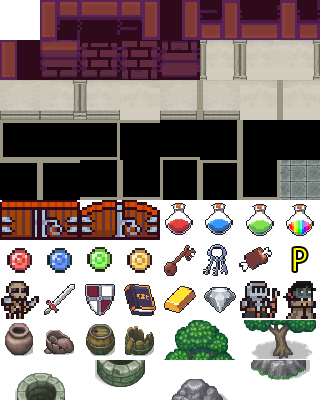
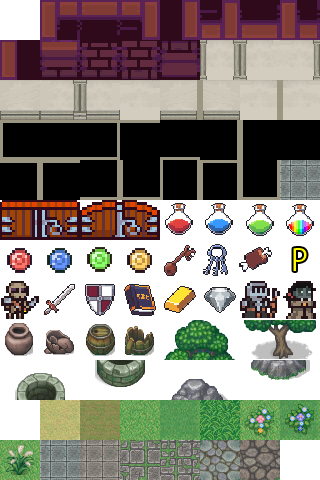
a

diff --git a/zelda/source/MapCtrl.cpp b/zelda/source/MapCtrl.cpp
@@ -419,6 +419,22 @@ bool MapCtrl::SetUpGameObj(sharedListObj objList, bool modeFlag)
 			case MAP_ID::STONE_2:
 			case MAP_ID::STONE_3:
 			case MAP_ID::STONE_4:
+			case MAP_ID::falest:
+			case MAP_ID::falest2:
+			case MAP_ID::falest3:
+			case MAP_ID::falest4:
+			case MAP_ID::falest5:
+			case MAP_ID::falest6:
+			case MAP_ID::falest7:
+			case MAP_ID::falest8:
+			case MAP_ID::falest9:
+			case MAP_ID::falest10:
+			case MAP_ID::falest11:
+			case MAP_ID::falest12:
+			case MAP_ID::falest13:
+			case MAP_ID::falest14:
+			case MAP_ID::falest15:
+			case MAP_ID::falest16:
 				SetData(itemData, VECTOR2(x * chipSize.x, y * chipSize.y), MAP_ID::NONE);
 				break;
 			default:
@@ -560,6 +576,22 @@ void MapCtrl::Draw(bool flag)
 				case MAP_ID::STONE_2:
 				case MAP_ID::STONE_3:
 				case MAP_ID::STONE_4:
+				case MAP_ID::falest:
+				case MAP_ID::falest2:
+				case MAP_ID::falest3:
+				case MAP_ID::falest4:
+				case MAP_ID::falest5:
+				case MAP_ID::falest6:
+				case MAP_ID::falest7:
+				case MAP_ID::falest8:
+				case MAP_ID::falest9:
+				case MAP_ID::falest10:
+				case MAP_ID::falest11:
+				case MAP_ID::falest12:
+				case MAP_ID::falest13:
+				case MAP_ID::falest14:
+				case MAP_ID::falest15:
+				case MAP_ID::falest16:
 					DrawGraph(
 						tmpPos.x + offset.x - scrollTbl[pIdx].x,
 						tmpPos.y + offset.y - scrollTbl[pIdx].y,

diff --git a/zelda/source/ResultScene.cpp b/zelda/source/ResultScene.cpp
@@ -45,10 +45,14 @@ uniqueBase ResultScene::UpDate(uniqueBase own, const GameCtrl & controller)
 	if (resultTemp == 0)
 	{
 		ScoreLoad();
-		if (fileData.hiScore < resultScore[0])
+		if (plNumber == 1)
 		{
-			fileData.hiScore = resultScore[0];
-			ScoreSave();
+			if (fileData.hiScore < resultScore[0])
+			{
+				fileData.hiScore = resultScore[0];
+				updateFlag = true;
+				ScoreSave();
+			}
 		}
 	}
 	ResultDraw();
@@ -146,6 +150,10 @@ void ResultScene::ResultDraw(void)
 			}
 		}
 	}
+	if (updateFlag)
+	{
+		DrawGraph(500,720, IMAGE_ID("image/hiscore_.png")[0],true);
+	}
 	ScreenFlip();
 }
 
@@ -163,6 +171,7 @@ int ResultScene::Init(void)
 
 	plNumber = 0;
 	resultTemp = 0;
+	updateFlag = false;
 	return 0;
 }
 

diff --git a/zelda/source/Obj.cpp b/zelda/source/Obj.cpp
@@ -94,6 +94,7 @@ void Obj::Draw(void)
 //	DrawFormatString(pos.x - scrollOffset.x +drawOffset.x , pos.y - scrollOffset.y +drawOffset.y,0x00ffffff, "scrX:%d\nscrY:%d", pos.x, pos.y);
 //	DrawCircle(pos.x - scrollOffset.x +drawOffset.x, pos.y - scrollOffset.y +drawOffset.y, hitRad.x, 0x00ffffff, false);
 }
+
 void Obj::Draw(unsigned int id)
 {
 	if (id < IMAGE_ID(imageName).size())

diff --git a/zelda/source/MAP_ID.h b/zelda/source/MAP_ID.h
@@ -88,6 +88,22 @@ enum class MAP_ID
 	STONE_2,
 	STONE_3,
 	STONE_4,
+	falest,
+	falest2,
+	falest3,
+	falest4,
+	falest5,
+	falest6,
+	falest7,
+	falest8,
+	falest9,
+	falest10,
+	falest11,
+	falest12,
+	falest13,
+	falest14,
+	falest15,
+	falest16,
 	MAX
 };
 
